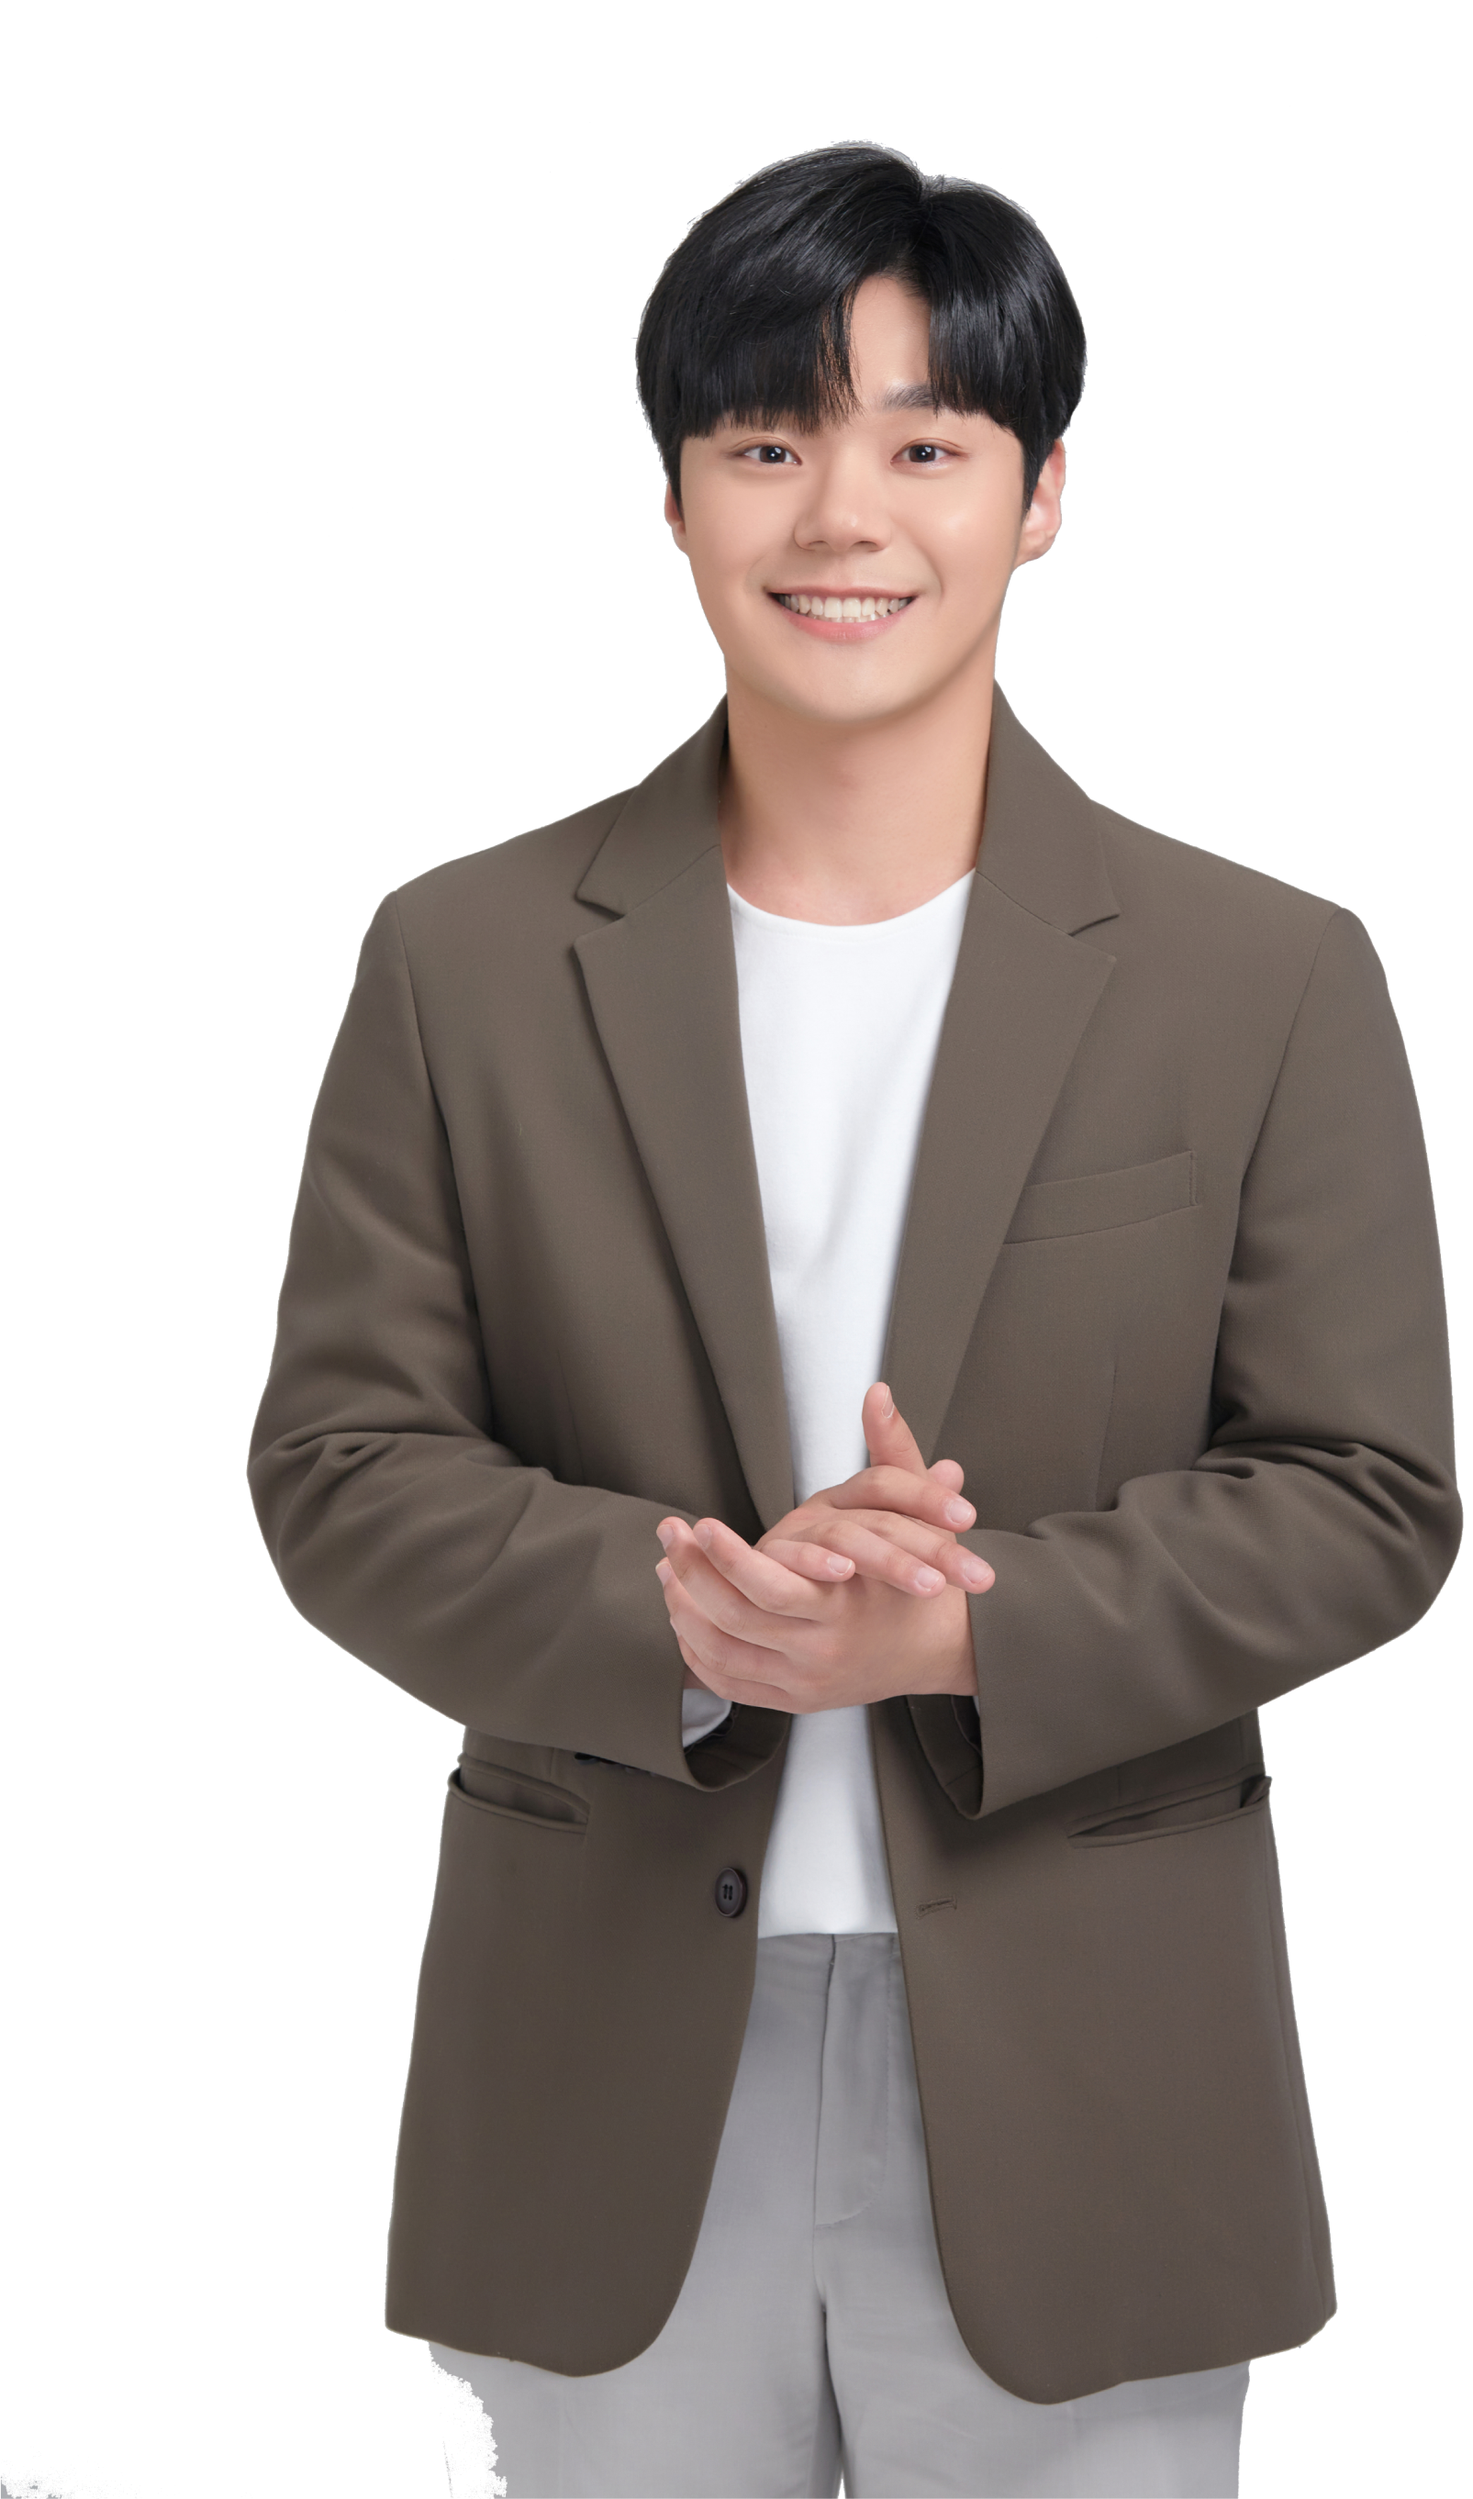
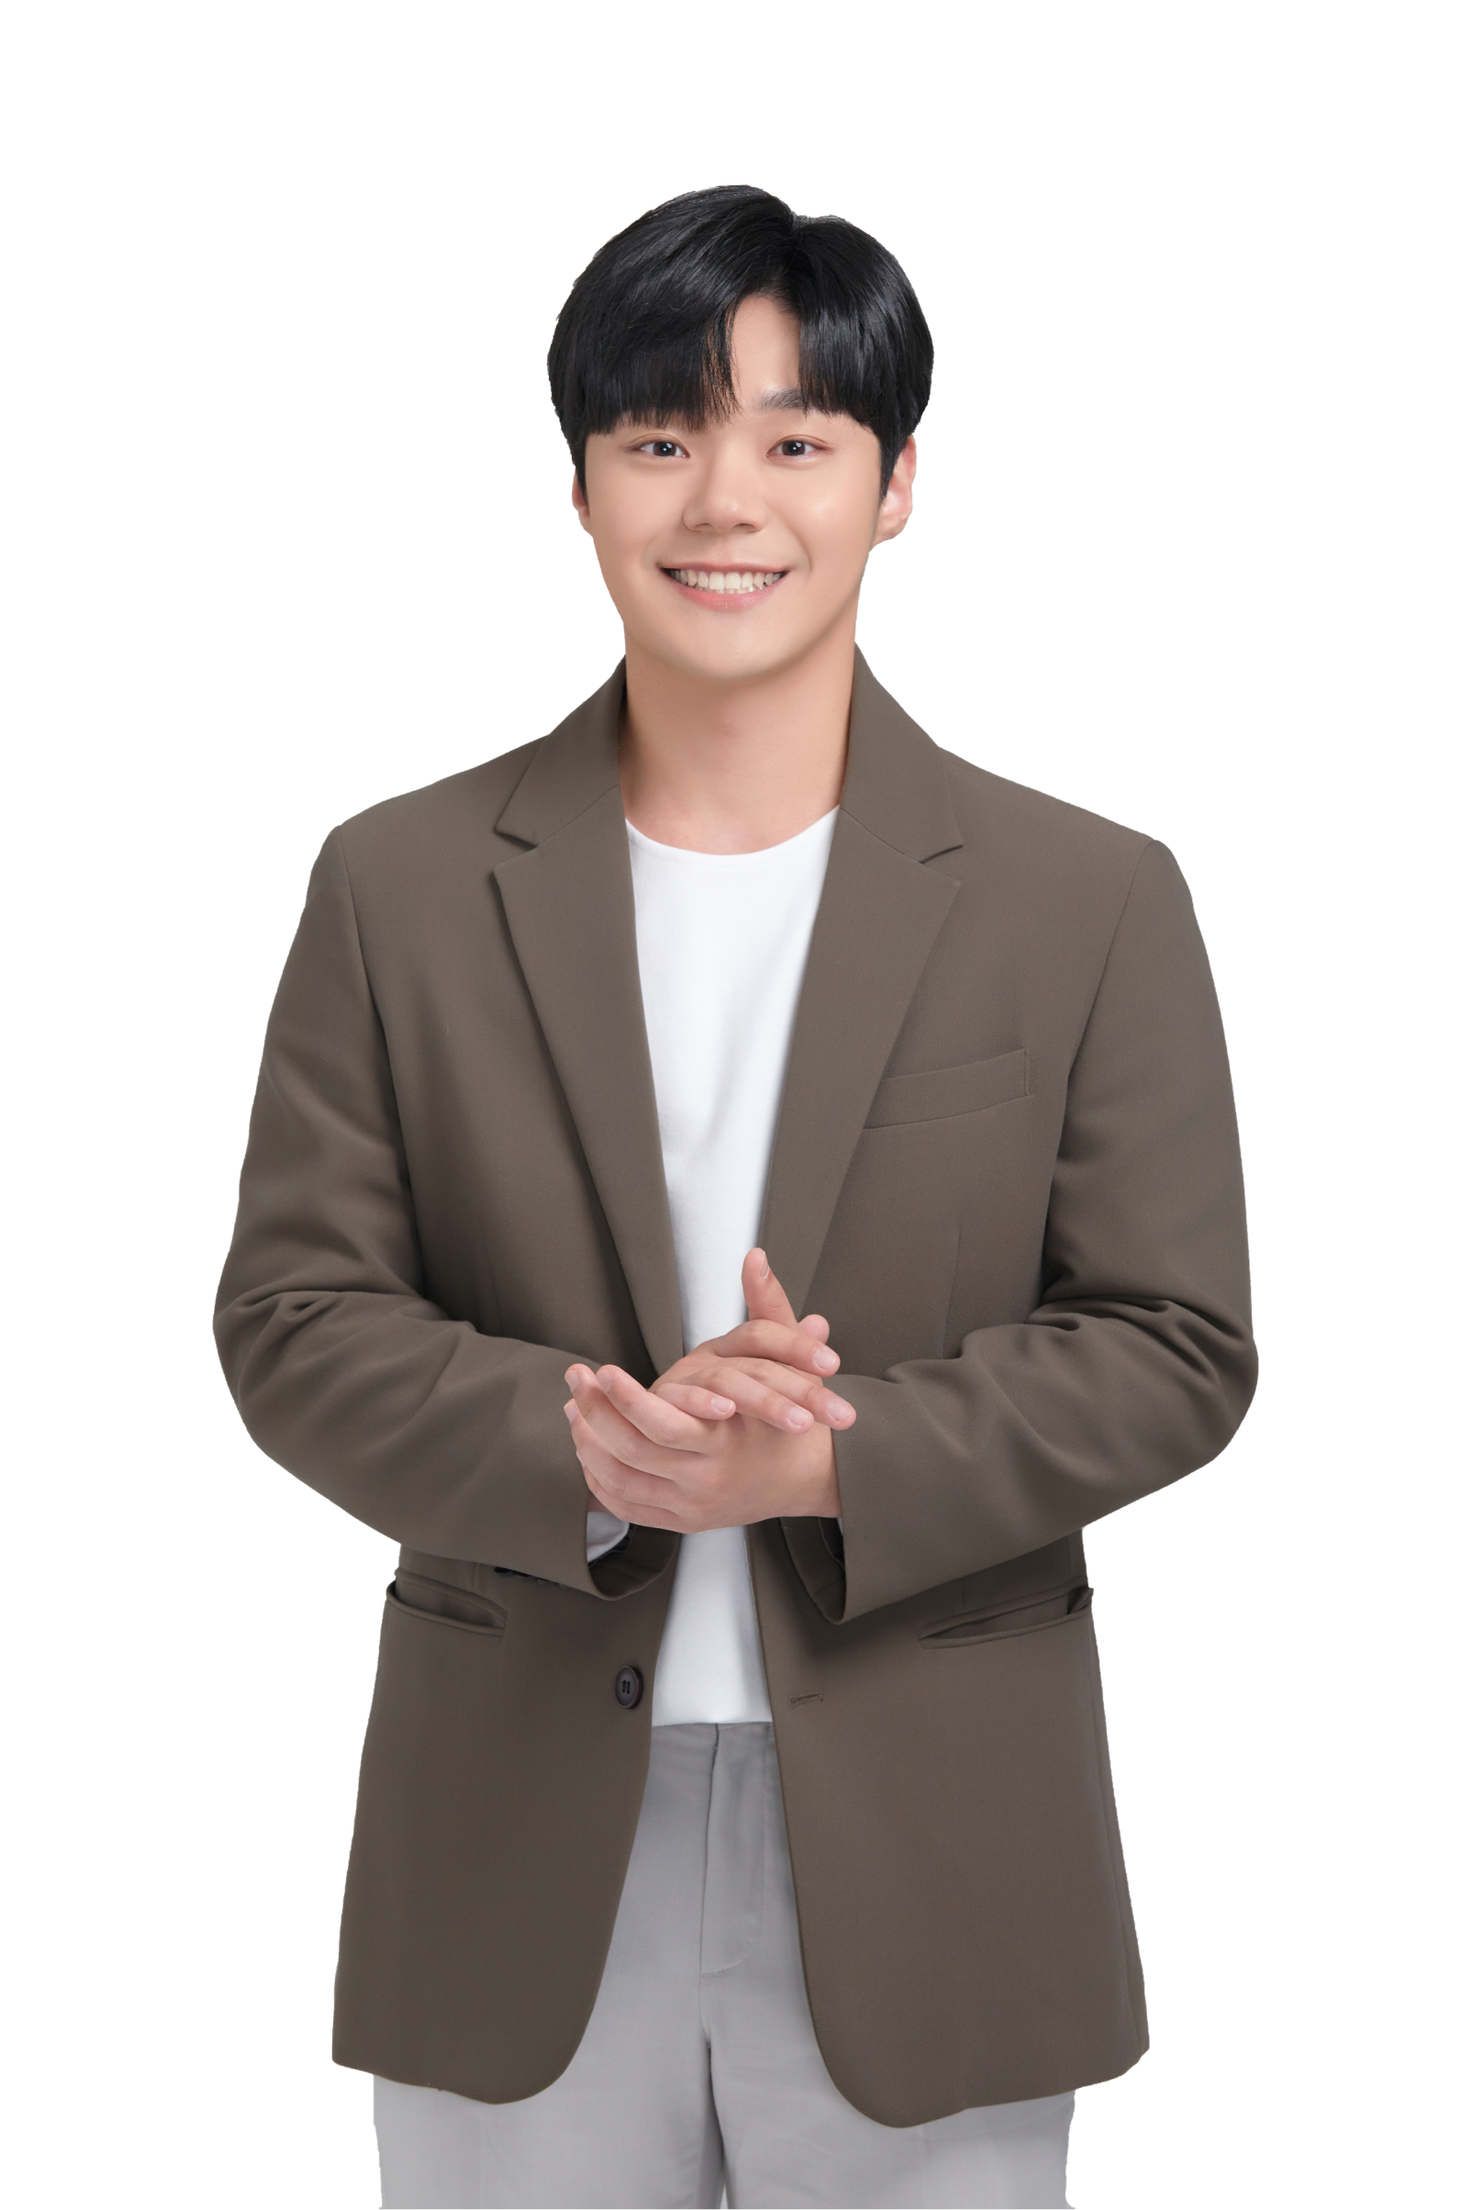
명함 목업 다자인 추가

diff --git a/css/index.css b/css/index.css
@@ -166,13 +166,13 @@
 /* #section2 */
 #section2{background-color: #F5C7A9; box-sizing: border-box;}
 
-#section2 .container{background: url(../img/vitastudio456293-2.png) no-repeat; background-position: -72px center; background-size: 56%;}
-/* #section2 .container{background: url(../img/vitastudio456359.png) no-repeat; background-position: -77px center; background-size: 466px;} */
+/* #section2 .container{background: url(../img/vitastudio456293-2.png) no-repeat; background-position: -72px center; background-size: 56%;} */
+#section2 .container{background: url(../img/vitastudio456359.png) no-repeat; background-position: -35px center; background-size: 513px;}
 
 #section2 .container .h2_title{ width: 155px; margin-left: 575.19px;}
 
-#section2 .container .section2_textBox{margin-top: 274.4px; margin-left: 575.19px; display: flex; flex-wrap: wrap; justify-content: space-between; transform: translateX(160%); transition: all .8s;}
-#section2 .container .section2_textBox.on{transform: translateX(0); transition: all .8s;}
+#section2 .container .section2_textBox{margin-top: 274.4px; margin-left: 575.19px; display: flex; flex-wrap: wrap; justify-content: space-between; transform: translateX(160%); transition: all 1.2s; opacity: 0;}
+#section2 .container .section2_textBox.on{transform: translateX(0); transition: all 1.2s; opacity: 1;}
 
 #section2 .container .section2_textBox .section2_text:nth-child(odd){width: 50%; margin-bottom: 96px;}
 #section2 .container .section2_textBox .section2_text:nth-child(even){width: 40%;}
@@ -244,7 +244,7 @@
 /* //#section4 */
 
 /* #section5 */
-#section5{background-image: url(../img/design-background.png);}
+#section5{background-image: url(../img/design-background.png); overflow: hidden;}
 
 #section5 .container h2{color: #fdfdfd; margin-bottom: 114px;}
 
@@ -270,8 +270,22 @@
 
 /* //#section5 */
 
+/* #section5-1 */
+
+#section5-1 .container h2{margin-bottom: 114px; opacity: 0; transition: all 1.2s;}
+#section5-1 .container h2.on{opacity: 1; transition: all 1.2s;}
+
+#section5-1 .container .publ_box_wrap{width: 600px; border-radius: 12px; overflow: hidden; margin: auto; box-shadow: 0px 25px 35px -15px rgba(0, 0, 0, 0.4); opacity: 0; transform: translateY(160px); transition: all 1.2s;}
+#section5-1 .container .publ_box_wrap.on{opacity: 1; transform: translateY(0); transition: all 1.2s;}
+
+#section5-1 .container .publ_box_wrap img{width: 100%; height: 100%; display: block;}
+
+/* //#section5-1 */
+
 /* #section6 */
-/* //#section5 */
+#section6 .container h2{margin-bottom: 114px;}
+
+/* //#section6 */
 
 /* .footer */
 .footer{background-color: #25252B;}

diff --git a/index.html b/index.html
@@ -252,9 +252,21 @@
                 </div>
             </div>
         </section>
+        <section class="sectdion" id="section5-1">
+            <div class="container">
+                <h2 class="h2_title2">business card design</h2>
+                <div class="publ_box_wrap">
+                    <img src="img/business card.png" alt="명함목업사진">
+                </div>
+            </div>
+        </section>
         <section class="section" id="section6">
             <div class="container">
                 <h2 class="h2_title2">contact me!</h2>
+                <div class="contact_box">
+                    <p class="FK">지금까지 부엉이 ‘강부원’의 포트폴리오를 봐주셔서 감사합니다!</p>
+                    <p class="FK">경험과 성실함을 바탕으로 계속 발전해가는 퍼블리셔가 되겠습니다.</p>
+                </div>
             </div>
         </section>
         <footer class="footer">

diff --git a/js/custom.js b/js/custom.js
@@ -44,9 +44,13 @@ document.addEventListener('DOMContentLoaded',function(){
                 boxWrap[2].classList.add('on')
                 boxWrap[3].classList.add('on')
             }
-            if(pageYOffset>=3450||scrollY>=3450){
+            if(pageYOffset>=3600||scrollY>=3600){
                 this.document.querySelector("#section5 .container .design_container .design_text").classList.add('on')
                 this.document.querySelector("#section5 .container .design_container .design_img").classList.add('on')
+            }
+            if(pageYOffset>=4700||scrollY>=4700){
+                this.document.querySelector("#section5-1 .container .publ_box_wrap").classList.add('on')
+                this.document.querySelector("#section5-1 .container h2").classList.add('on')
             }
         })
     })
